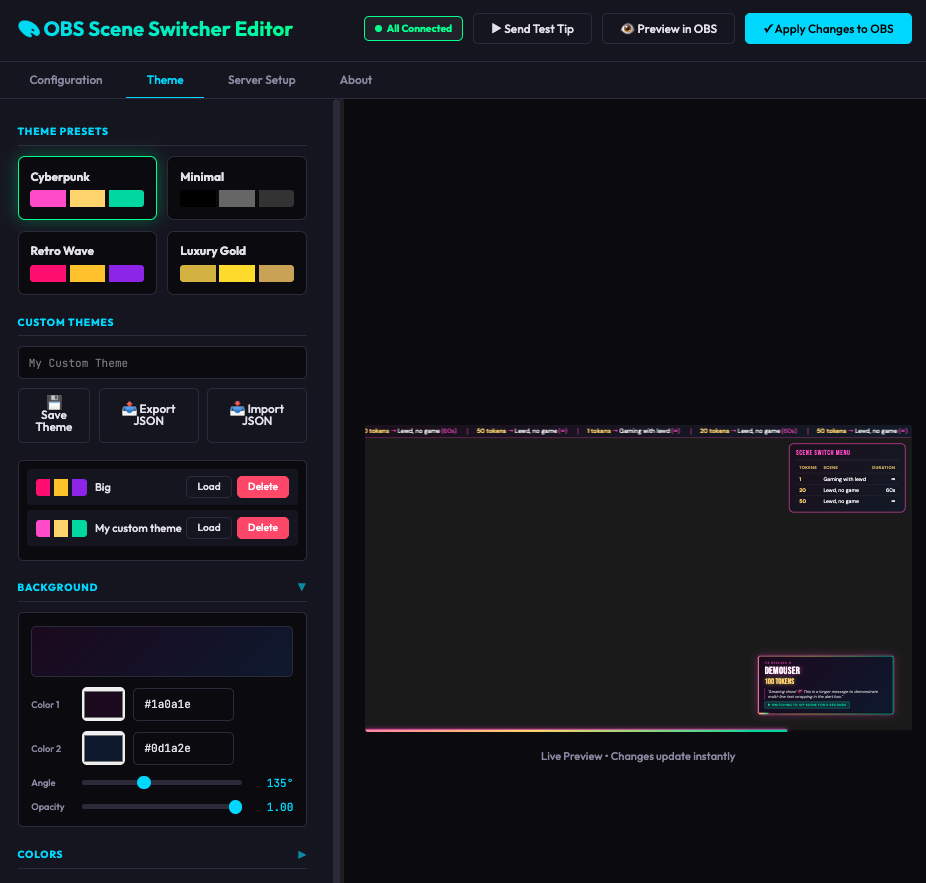
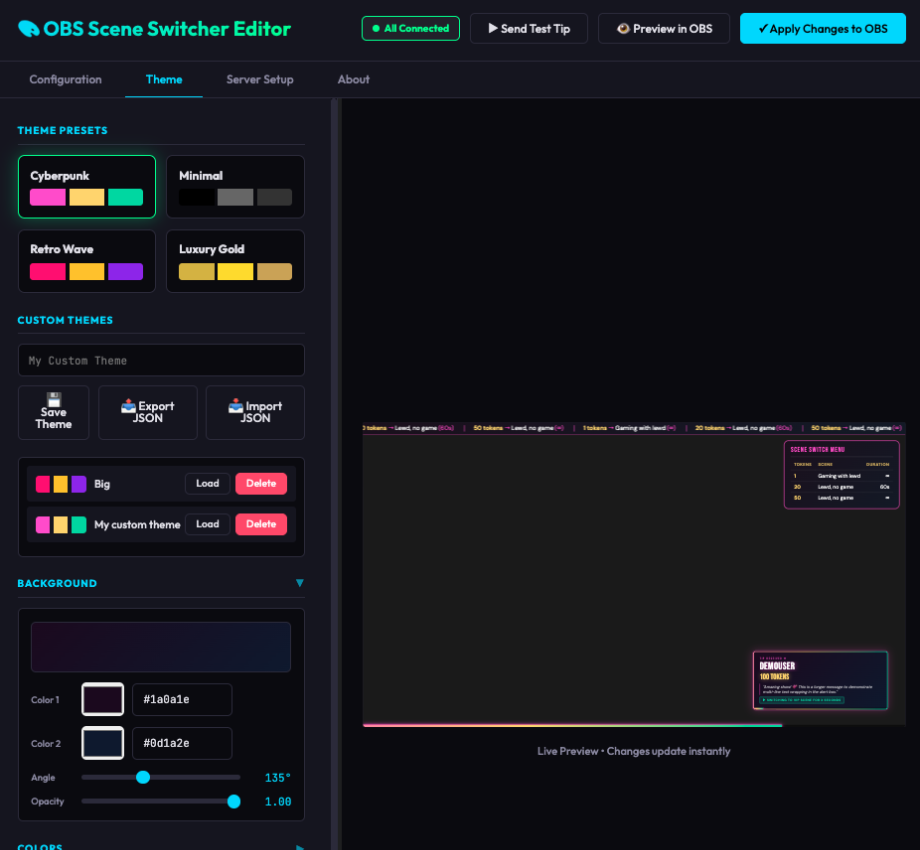
Fixed a problem with transparency for the ticker, and resized the theme editor screenshot

diff --git a/oss_overlay.html b/oss_overlay.html
@@ -437,7 +437,7 @@ function applyTheme(theme) {
   // Background opacity - applied to .alert-bg element
   if (theme.bgOpacity !== undefined) {
     root.style.setProperty('--bg-opacity', theme.bgOpacity);
-    
+
     // Hide/show background element based on opacity
     const alertBg = document.querySelector('#alert-box .alert-bg');
     if (alertBg) {
@@ -447,6 +447,7 @@ function applyTheme(theme) {
         alertBg.style.display = 'block';
       }
     }
+
   }
   
   // Progress bar settings
@@ -683,6 +684,8 @@ function updateTicker() {
   inner.style.animationDuration = (CONFIG.TICKER_SPEED || 30) + 's';
   el.className = 'ticker-' + CONFIG.TICKER_POSITION;
   el.style.zoom = CONFIG.TICKER_SCALE || 1;
+  const tickerBg = el.querySelector('.ticker-bg');
+  if (tickerBg) tickerBg.style.opacity = CONFIG.MENU_DISPLAY_BG_OPACITY !== undefined ? CONFIG.MENU_DISPLAY_BG_OPACITY : 1;
   const tickerH = 28 * (CONFIG.TICKER_SCALE || 1);
   const barBottom = CONFIG.TICKER_POSITION === 'bottom' ? `${tickerH}px` : '0px';
   document.documentElement.style.setProperty('--progress-bar-bottom', barBottom);

diff --git a/oss_editor.html b/oss_editor.html
@@ -897,7 +897,7 @@ input[type="range"]::-moz-range-thumb {
           <input type="range" id="menu-display-bg-opacity" min="0" max="1" step="0.01" value="1" title="Menu background opacity" oninput="this.nextElementSibling.textContent = parseFloat(this.value).toFixed(2); updatePreview()">
           <span class="slider-value" id="menu-display-bg-opacity-value">1.00</span>
         </div>
-        <div class="help-text">Background transparency of the menu overlay (0 = fully transparent)</div>
+        <div class="help-text">Background transparency of the menu overlay - also used for the ticker below</div>
       </div>
     </div>
     </div>
